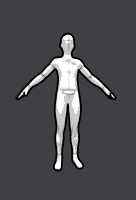
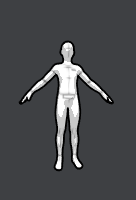
resize teen-* model file thumbnails

Changed region(s): [[0.1176, 0.15, 0.8529, 0.87]]

diff --git a/test/views/thumbnail-renderer/window.js b/test/views/thumbnail-renderer/window.js
@@ -279,6 +279,12 @@ const Render = ({ model, modelData }) => {
     }
 
     switch (model.id) {
+      case 'teen-male':
+      case 'teen-female':
+        group.scale.multiplyScalar(0.94)
+        group.rotation.y = Math.PI/20
+        break
+
       case 'box':
         camera.position.y -= 1
         camera.position.x += 0.05
